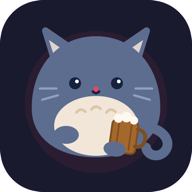
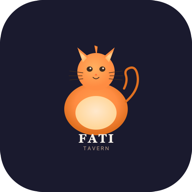
feat: v0.6.0 正式logo + UGC分级标记 + README/LICENSE开源就绪 + 分享回路设计稿

diff --git a/src/lib/tavern.test.ts b/src/lib/tavern.test.ts
@@ -86,6 +86,25 @@ describe('parseCharacterJson', () => {
   })
 })
 
+// ─── 内容分级推断 ─────────────────────────────────────────
+
+describe('contentRating 推断', () => {
+  it('显式声明优先', () => {
+    expect(parseCharacterJson({ name: 'a', contentRating: 'adult', tags: [] })?.contentRating).toBe('adult')
+    expect(parseCharacterJson({ name: 'a', contentRating: 'all', tags: ['nsfw'] })?.contentRating).toBe('all')
+  })
+
+  it('tags 含 NSFW 类标记推断为 adult（大小写不敏感）', () => {
+    expect(parseCharacterJson({ name: 'a', tags: ['Fantasy', 'NSFW'] })?.contentRating).toBe('adult')
+    expect(parseCharacterJson({ name: 'a', tags: ['r18'] })?.contentRating).toBe('adult')
+    expect(parseCharacterJson({ name: 'a', tags: ['成人向'] })?.contentRating).toBe('adult')
+  })
+
+  it('无标记时为 unknown', () => {
+    expect(parseCharacterJson({ name: 'a', tags: ['fantasy', 'cute'] })?.contentRating).toBe('unknown')
+  })
+})
+
 // ─── PNG 卡解析 ───────────────────────────────────────────
 
 describe('parsePngCard', () => {

diff --git a/src/lib/tavern.ts b/src/lib/tavern.ts
@@ -50,9 +50,21 @@ export function parseCharacterJson(raw: any): TavernCard | null {
     creator: d.creator || '',
     tags: d.tags || [],
     character_book: d.character_book ? normalizeBook(d.character_book) : undefined,
-    contentRating: d.contentRating, // 保留来源分级，无则 undefined
+    contentRating: deriveContentRating(d), // 显式分级优先，其次按 tags 推断
   }
   return card
+}
+
+// 分级推断：来源显式声明 > tags 关键词 > unknown
+// UGC 合规钩子——导入时标记，画廊展示 18+ 徽标
+function deriveContentRating(d: any): TavernCard['contentRating'] {
+  if (d.contentRating === 'all' || d.contentRating === 'suggestive' || d.contentRating === 'adult') {
+    return d.contentRating
+  }
+  const tags: string[] = Array.isArray(d.tags) ? d.tags.map((t: any) => String(t).toLowerCase()) : []
+  const adultMarkers = ['nsfw', 'adult', '18+', 'r18', 'r-18', 'explicit', '成人', '限制级']
+  if (tags.some((t) => adultMarkers.some((m) => t.includes(m)))) return 'adult'
+  return 'unknown'
 }
 
 // ─── 世界书 JSON ──────────────────────────────────────────

diff --git a/src/lib/i18n.ts b/src/lib/i18n.ts
@@ -33,6 +33,10 @@ const dict: Record<string, { zh: string; en: string }> = {
   'gallery.noDesc': { zh: '暂无描述', en: 'No description' },
   'gallery.delete': { zh: '删除', en: 'Delete' },
   'gallery.footer': { zh: 'BYOK · 你的 Key 和聊天记录不离开你的设备', en: 'BYOK · Your key and chats never leave your device' },
+  'gallery.ugcNote': {
+    zh: '角色卡为用户自行导入的第三方内容，本站不托管、不分发；标记为 18+ 的内容仅限成年人使用。',
+    en: 'Character cards are third-party content imported by users — this site hosts and distributes nothing; 18+ content is for adults only.',
+  },
   'landing.title': { zh: '拖一张角色卡进来，和 TA 聊天', en: 'Drop a character card in and start chatting' },
   'landing.sub': { zh: '支持 SillyTavern 角色卡（PNG / JSON），3 分钟开始你的第一次对话', en: 'Supports SillyTavern cards (PNG / JSON) — first conversation in 3 minutes' },
   'landing.step1': { zh: '拖入角色卡', en: 'Drop a card' },

diff --git a/src/App.tsx b/src/App.tsx
@@ -155,7 +155,10 @@ function Gallery() {
                 }
               </div>
               <div className="card-info">
-                <strong className="card-name">{c.card.name}</strong>
+                <strong className="card-name">
+                  {c.card.name}
+                  {c.card.contentRating === 'adult' && <span className="badge-18">18+</span>}
+                </strong>
                 <span className="card-desc">{c.card.description?.slice(0, 60) || c.card.personality?.slice(0, 60) || t(lang, 'gallery.noDesc')}</span>
                 {c.card.tags?.length > 0 && (
                   <span className="card-tags">{c.card.tags.slice(0, 3).join(' · ')}</span>
@@ -169,6 +172,7 @@ function Gallery() {
 
       <footer className="gallery-footer">
         <span>{t(lang, 'gallery.footer')}</span>
+        <span className="ugc-note">{t(lang, 'gallery.ugcNote')}</span>
       </footer>
 
       {importResult && (

diff --git a/src/App.css b/src/App.css
@@ -25,7 +25,11 @@ body { font-family: -apple-system, BlinkMacSystemFont, 'Segoe UI', sans-serif; b
 .import-toast .fail-line { color: #f0a0b0; word-break: break-all; }
 
 /* ─── 品牌 logo ─── */
-.brand-logo { width: 34px; height: 34px; border-radius: 8px; vertical-align: middle; margin-right: 10px; }
+.brand-logo { width: auto; height: 44px; vertical-align: middle; margin-right: 8px; }
+
+/* ─── 分级徽标 & UGC 免责 ─── */
+.badge-18 { display: inline-block; margin-left: 6px; padding: 0 5px; font-size: 0.6rem; font-weight: 700; color: #fff; background: var(--accent); border-radius: 4px; vertical-align: 2px; }
+.ugc-note { display: block; margin-top: 4px; font-size: 0.68rem; opacity: 0.7; }
 
 /* ─── AI 身份披露 & 危机资源提示 ─── */
 .chat-title-text { display: flex; flex-direction: column; line-height: 1.2; }

diff --git a/README.md b/README.md
@@ -1,32 +1,65 @@
-# React + TypeScript + Vite
+<div align="center">
 
-This template provides a minimal setup to get React working in Vite with HMR and some Oxlint rules.
+<img src="public/logo.svg" alt="FATI Tavern" width="200" />
 
-Currently, two official plugins are available:
+# 肥猫酒馆 · FATI Tavern
 
-- [@vitejs/plugin-react](https://github.com/vitejs/vite-plugin-react/blob/main/packages/plugin-react) uses [Oxc](https://oxc.rs)
-- [@vitejs/plugin-react-swc](https://github.com/vitejs/vite-plugin-react/blob/main/packages/plugin-react-swc) uses [SWC](https://swc.rs/)
+**拖一张角色卡进来，和 TA 聊天。**
+Drop a character card in and start chatting.
 
-## React Compiler
+零安装 · 零注册 · 零后端 —— 你的 Key 和聊天记录永远不离开你的设备
 
-The React Compiler is not enabled on this template because of its impact on dev & build performances. To add it, see [this documentation](https://react.dev/learn/react-compiler/installation).
+[在线体验 →](https://fati-tavern.vercel.app)
 
-## Expanding the Oxlint configuration
+</div>
 
-If you are developing a production application, we recommend enabling type-aware lint rules by installing `oxlint-tsgolint` and editing `.oxlintrc.json`:
+---
 
-```json
-{
-  "$schema": "./node_modules/oxlint/configuration_schema.json",
-  "plugins": ["react", "typescript", "oxc"],
-  "options": {
-    "typeAware": true
-  },
-  "rules": {
-    "react/rules-of-hooks": "error",
-    "react/only-export-components": ["warn", { "allowConstantExport": true }]
-  }
-}
+## 这是什么
+
+一个极轻量的浏览器端 AI 角色扮演聊天室（纯 PWA）：
+
+1. **拖入**一张 SillyTavern 角色卡（PNG / JSON）
+2. **填入**你自己的 API Key（或选免 Key 体验档）
+3. **开聊**——多会话、流式输出、全部数据存在你的浏览器里
+
+## 特性
+
+- 🃏 **SillyTavern 卡片兼容**：v1/v2/v3 JSON、PNG（`chara`/`ccv3` 区块、gzip/zTXt 压缩）、世界书、`{{char}}`/`{{user}}` 宏
+- 🔑 **BYOK**：DeepSeek / Kimi / OpenAI / LM Studio / Ollama / 任意 OpenAI 兼容端点，Key 只存 localStorage
+- ⚡ **免 Key 体验档**：WebLLM 浏览器本地推理（WebGPU），无需任何 Key
+- 🔒 **隐私优先**：无后端、无内容上传、无账号；仅统计匿名功能使用计数（访问/导入/发消息）
+- 🌐 **中英双语**：界面语言自动检测、可手动切换
+- 📱 **PWA**：手机电脑通用，可添加到主屏幕，离线可打开
+- 💛 **安全底线**：AI 身份披露常驻；自伤意念本地识别并提供危机资源（12356 / 988）
+
+## 本地开发
+
+```bash
+npm install
+npm run dev      # 开发服务器
+npm test         # 单元测试（vitest）
+npm run lint     # oxlint
+npm run build    # 生产构建（tsc + vite + PWA）
 ```
 
-See the [Oxlint rules documentation](https://oxc.rs/docs/guide/usage/linter/rules) for the full list of rules and categories.
+技术栈：React 19 + TypeScript + Zustand + Vite + vite-plugin-pwa。运行时依赖仅 4 个，PNG 解析 / SSE 流式 / IndexedDB 全部手写。
+
+模块边界：`tavern.ts`（解析）→ `api.ts`（网络）→ `db.ts`（持久化）→ `store.ts`（状态）→ UI，单向依赖。
+
+## 内容与合规
+
+- 角色卡为用户自行导入的第三方内容，本项目不托管、不分发任何卡片
+- 导入时按来源声明与 tags 自动标记内容分级，18+ 内容仅限成年人使用
+- 聊天界面常驻 AI 身份披露；检测到自伤意念时展示危机求助资源
+
+## 许可
+
+[MIT](LICENSE)
+
+## 相关文档
+
+- [用户使用说明](docs/USER-GUIDE.md)
+- [技术架构](docs/ARCHITECTURE.md)
+- [改进工作计划](docs/IMPROVEMENT-PLAN.md)
+- [更新日志](CHANGELOG.md)

diff --git a/docs/SHARE-LOOP-DESIGN.md b/docs/SHARE-LOOP-DESIGN.md
@@ -1,0 +1,38 @@
+# 分享回路设计稿（T3-3.5，一页）
+
+> 状态：设计定稿，未实现。目标：让每一张被分享的卡/每一段被晒出的对话都成为免费获客素材——这是本地部署的 SillyTavern 结构性做不到的事。
+
+## 回路一：角色卡链接分享（优先实现）
+
+**用户故事**：我导入了一张好玩的卡，点「分享」得到一条链接发给朋友；朋友打开链接，卡已经躺在 TA 的肥猫酒馆里，配好 Key 就能聊。
+
+**方案**：卡片 JSON → gzip（CompressionStream）→ base64url → 放进 URL fragment：
+```
+https://fati-tavern.vercel.app/#card=H4sIAAA...
+```
+- 用 `#` fragment 而非 query：**数据不会发送到服务器**，隐私承诺不破
+- App 启动时检测 `location.hash`，解出卡片 → 弹确认框（显示卡名/头像/分级）→ 一键入库
+- 体积预算：普通卡 gzip 后 2–8KB，base64 后 ≈3–11KB；主流浏览器 URL 上限 ≥64KB，超限（世界书巨卡）时降级提示"请用文件分享"
+- 18+ 卡分享链接打开时先弹成年确认（复用 contentRating）
+- 埋点：`share_create` / `share_open`（漏斗新增一环：分享系数 = share_open / share_create）
+
+**成本**：~1 天（压缩/解压已有基建，UI 两个弹层）
+
+## 回路二：对话片段导出图（次优先）
+
+**用户故事**：聊到一段好玩的对话，选中几条消息导出成一张竖版长图（角色头像 + 气泡 + 底部肥猫 logo + 短链），发到社交平台。
+
+**方案**：Canvas 手绘（不引 html2canvas，保持零依赖基调）：
+- 消息多选模式 → 「导出图片」→ canvas 渲染气泡流 → `toBlob` → 下载/系统分享（`navigator.share`）
+- 图片底部固定水印区：logo + "fati-tavern.vercel.app" + 卡名
+- 埋点：`export_image`
+
+**成本**：~1.5 天（canvas 排版是主要工作量）
+
+## 回路三：只读卡廊（远期，暂缓）
+
+托管一个精选卡片页需要内容审核责任 + 存储，与"不托管、不分发"的 UGC 免责立场冲突。**除非回路一数据证明分享需求旺盛，否则不做。**
+
+## 实现顺序建议
+
+回路一 → 观察两周分享系数 → 决定回路二是否值得做 → 回路三默认不做。

diff --git a/CHANGELOG.md b/CHANGELOG.md
@@ -2,6 +2,17 @@
 
 本项目遵循 [语义化版本](https://semver.org/lang/zh-CN/)。
 
+## [0.6.0] - 2026-07-27
+
+品牌视觉正式版 + 开源就绪 + UGC 分级。
+
+### Added
+- **正式 logo 上线**：橘色肥猫 + FATI TAVERN 字标（用户提供），favicon / 页头 / PWA 方形图标（深色底）全套更新
+- **内容分级标记**：导入时按来源声明与 tags（nsfw/r18/成人 等）推断 `contentRating`，画廊卡片显示 18+ 徽标；页脚新增 UGC 免责声明（不托管、不分发、成人内容限成年人）
+- **README 重写**：产品定位、特性清单、开发指南、合规立场（替换 Vite 模板原文）；新增 MIT LICENSE——转公开仓的前置件就绪
+- **分享回路设计稿**（`docs/SHARE-LOOP-DESIGN.md`）：卡片链接分享（URL fragment，零服务器）/ 对话导出图 / 卡廊三回路，含优先级与埋点设计
+- contentRating 推断单测 3 条
+
 ## [0.5.0] - 2026-07-27
 
 Sprint T3 核心两项：漏斗埋点 + 免 Key 体验档。
